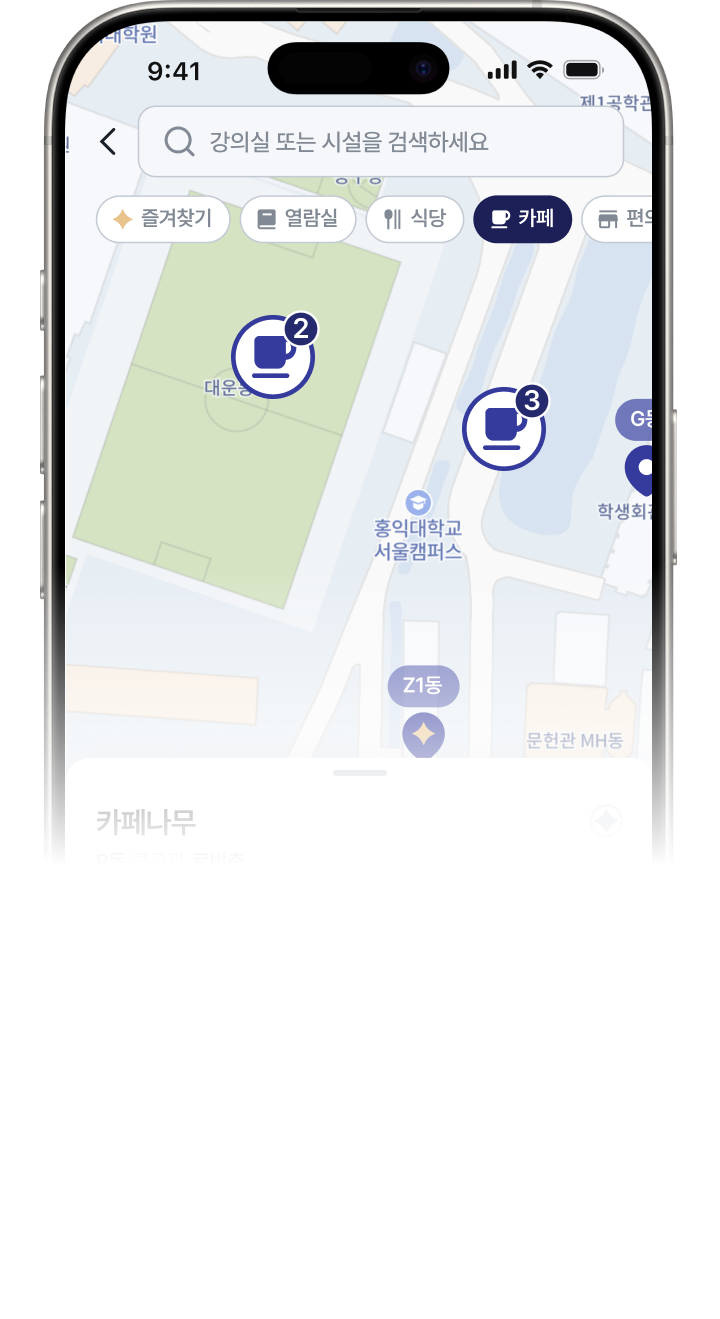
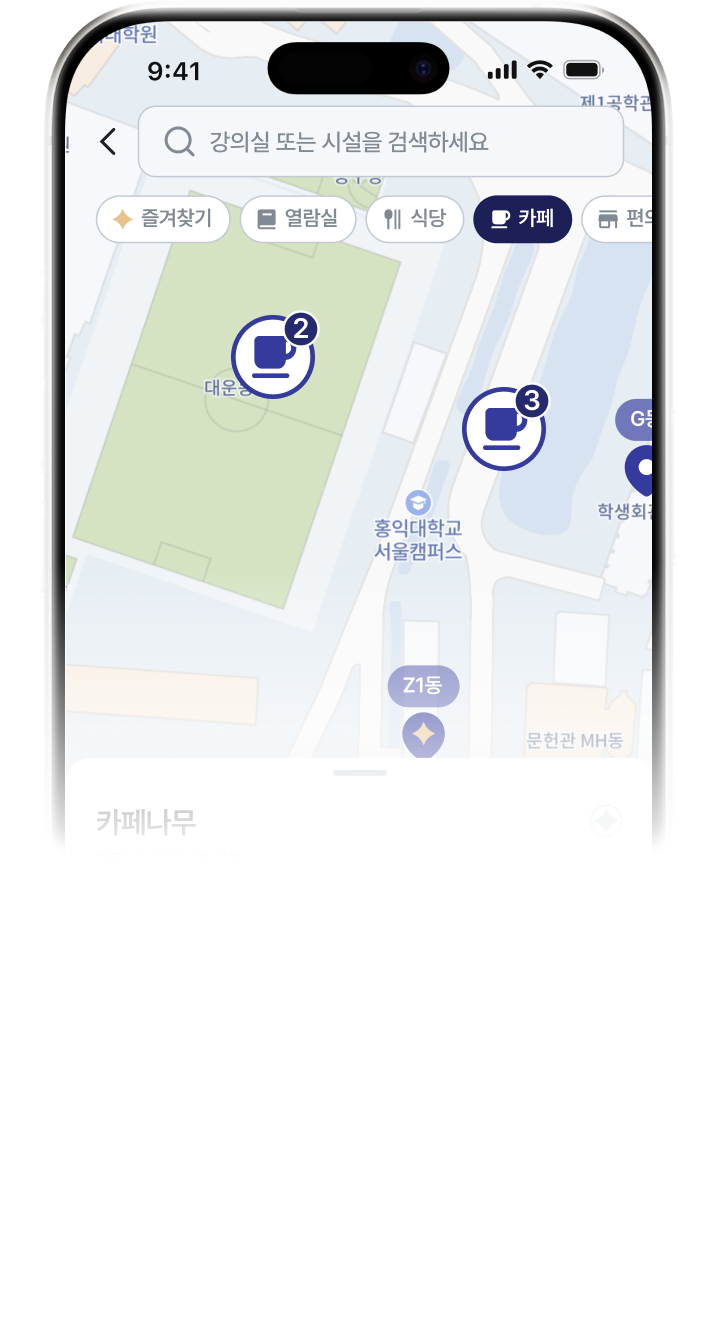
fix: 온보딩 편의시설 목업 페이지 아이콘 링/그림자 Figma 스펙 맞춤

Changed region(s): [[0.8861, 0.0622, 0.9472, 0.5906], [0.0306, 0.0622, 0.0917, 0.5906], [0.1528, 0.0, 0.8556, 0.0311]]

diff --git a/src/screens/OnboardingScreen.tsx b/src/screens/OnboardingScreen.tsx
@@ -181,13 +181,29 @@ const SEARCH_DEMO_FACILITY_ITEMS: FacilityListSheetItem[] = [
 // 온 아이콘에 맞는 편의시설 카드(FacilityInfoCard)가 아래에 크로스페이드로 바뀐다.
 // 폰 자체 크기/보이는 바닥 기준(288 캔버스 단위)은 검색 목업 페이지와 완전히 동일한
 // 스크린샷 구조라 그 상수들을 그대로 재사용한다.
-const FACILITY_RING_RADIUS = 108;
 const FACILITY_RING_ICON_BOX_SIZE = 48;
-// 맨 위(가운데) 슬롯 아이콘의 아래쪽 끝이 폰 상단에서 16px 위에 오도록 역산한 값
-// (center - radius + iconBox/2 = -16 이 되도록: center = -16 + radius - iconBox/2).
+// Figma(1257:45531/45533/45572)에서 실측한 좌/우 아이콘 중심 좌표를, 맨 위 슬롯에서부터의
+// 각도 거리(dist, 0=맨 위)별 키포인트로 옮긴 값이다 — 원 공식(sin/cos) 대신 이 실측
+// 간격을 그대로 보간해서 써야 Figma 배치와 일치한다. dist=0(맨 위 슬롯)은 측정값이 없어서
+// dist=0(맨 위 슬롯)은 아이콘 아래쪽 끝이 폰 상단(Scene 0,0)에서 16px 위에 오도록
+// 지정한 값이다(center = -16 - iconBox/2 = -40).
+// x는 중심(0)에서 좌우로 얼마나 벌어지는지(항상 양수, 부호는 좌/우에 따라 따로 곱한다),
+// y는 폰 상단(Scene 0,0) 기준 아이콘 중심의 세로 위치(위쪽일수록 음수).
 const FACILITY_RING_TOP_ICON_GAP = 16;
-const FACILITY_RING_CENTER_Y =
-  -FACILITY_RING_TOP_ICON_GAP + FACILITY_RING_RADIUS - FACILITY_RING_ICON_BOX_SIZE / 2;
+// 7개가 51.43°씩 떨어져 있으면 "쉬는" 위치의 dist는 최대 154.29°까지만 나오지만,
+// 회전 도중(한 슬롯에서 다음 슬롯으로 넘어가는 사이)에는 dist가 그보다 커져 180°(맨
+// 아래/뒤)까지 지나간다. 여기 마지막 키포인트(180)가 없으면 154.29 값에서 그대로
+// 멈춰(clamp) 왼쪽 끝 아이콘이 내려가다 만 것처럼 보인다 — 180까지 이어서 계속
+// 아래로 가라앉고(dx는 다시 0으로 모이고) 흰 배경 속으로 사라지게(opacity 0) 한다.
+const FACILITY_RING_DIST_KEYPOINTS = [0, 360 / 7, (360 / 7) * 2, (360 / 7) * 3, 180];
+const FACILITY_RING_DX_KEYPOINTS = [0, 68.5, 121.5, 136.5, 0];
+const FACILITY_RING_DY_KEYPOINTS = [
+  -FACILITY_RING_TOP_ICON_GAP - FACILITY_RING_ICON_BOX_SIZE / 2,
+  -18,
+  31,
+  88,
+  130,
+];
 const FACILITY_RING_ICON_COUNT = 7;
 const FACILITY_RING_ANGLE_STEP = 360 / FACILITY_RING_ICON_COUNT;
 const FACILITY_RING_TICK_MS = 2000;
@@ -379,20 +395,26 @@ function FacilityRingIcon({
   const style = useAnimatedStyle(() => {
     const baseAngle = index * FACILITY_RING_ANGLE_STEP;
     const angleDeg = baseAngle + rotation.value;
-    const angleRad = (angleDeg * Math.PI) / 180;
     const normalized = (((angleDeg % 360) + 540) % 360) - 180;
     const dist = Math.abs(normalized);
-    const opacity = interpolate(dist, [0, 15, 90, 130], [1, 0.33, 0.33, 0], Extrapolation.CLAMP);
+    const sign = normalized < 0 ? -1 : 1;
+    // 쉬는 위치(최대 154.29°)에서는 7개가 다 옅게라도 보이도록 0이 되지 않게 하되,
+    // 회전 중 154.29°를 지나 180°(맨 아래)까지 더 내려가는 동안에는 흰 배경 속으로
+    // 사르르 사라지도록 그 구간에서만 0으로 마저 페이드아웃한다.
+    const opacity = interpolate(
+      dist,
+      [0, 15, 90, 154.29, 180],
+      [1, 0.33, 0.33, 0.18, 0],
+      Extrapolation.CLAMP,
+    );
     const scale = interpolate(dist, [0, 15, 40], [1.12, 1.12, 1], Extrapolation.CLAMP);
-    const radius = FACILITY_RING_RADIUS;
+    const dx = interpolate(dist, FACILITY_RING_DIST_KEYPOINTS, FACILITY_RING_DX_KEYPOINTS, Extrapolation.CLAMP);
+    const dy = interpolate(dist, FACILITY_RING_DIST_KEYPOINTS, FACILITY_RING_DY_KEYPOINTS, Extrapolation.CLAMP);
     return {
       opacity,
       transform: [
-        { translateX: radius * Math.sin(angleRad) - FACILITY_RING_ICON_BOX_SIZE / 2 },
-        {
-          translateY:
-            FACILITY_RING_CENTER_Y - radius * Math.cos(angleRad) - FACILITY_RING_ICON_BOX_SIZE / 2,
-        },
+        { translateX: sign * dx - FACILITY_RING_ICON_BOX_SIZE / 2 },
+        { translateY: dy - FACILITY_RING_ICON_BOX_SIZE / 2 },
         { scale },
       ],
     };
@@ -662,10 +684,9 @@ export default function OnboardingScreen() {
           <PhoneMockupTopSpacer />
           <FadeInContent style={[{ width: '100%', alignItems: 'center' }, contentStyle]}>
             <SearchMockupScene>
-              <SearchMockupPhoneBox>
-                <SearchMockupImage source={OnboardingFacilityMockupImage} resizeMode="contain" />
-              </SearchMockupPhoneBox>
-
+              {/* 아이콘 링을 폰 스크린샷보다 먼저 그려서 폰 뒤에 깔리게 한다(회전하며
+                  폰 몸체 쪽으로 들어가는 아이콘은 폰에 가려지고, 옆으로 삐져나온
+                  부분만 보이는 게 Figma 의도와 맞다). */}
               <FacilityIconRing pointerEvents="none">
                 {FACILITY_DEMO_CATEGORIES.map((category, index) => (
                   <FacilityRingIcon
@@ -676,6 +697,10 @@ export default function OnboardingScreen() {
                   />
                 ))}
               </FacilityIconRing>
+
+              <SearchMockupPhoneBox>
+                <SearchMockupImage source={OnboardingFacilityMockupImage} resizeMode="contain" />
+              </SearchMockupPhoneBox>
 
               <FacilityInfoCardBox
                 style={[{ top: FACILITY_CARD_TOP_GAP_FROM_PHONE_TOP }, facilityInfoCardFadeStyle]}

diff --git a/src/components/common/FacilityInfoCard.tsx b/src/components/common/FacilityInfoCard.tsx
@@ -281,11 +281,11 @@ const Container = styled.View<{ variant: Props['variant']; compact: boolean }>`
   padding-bottom: ${({ compact }) => (compact ? '21.163px' : '32px')};
   /* outside/inside/room은 그래버-본문-CTA 사이가 24px, facility만 16px로 Figma 스펙이 다르다. */
   gap: ${({ variant, compact }) => (compact ? '10.581px' : variant === 'facility' ? '16px' : '24px')};
-  /* compact(온보딩 편의시설 목업)만 Figma box-shadow 적용: 0 -2.645px 10px 0 rgba(0,0,0,0.10) */
+  /* compact(온보딩 편의시설 목업)만 Figma box-shadow 적용: 0 -2.645px 20px 0 rgba(0,0,0,0.10) */
   shadow-color: #000;
   shadow-offset: 0px ${({ compact }) => (compact ? '-2.645px' : '-4px')};
   shadow-opacity: ${({ compact }) => (compact ? 0.1 : 0.05)};
-  shadow-radius: ${({ compact }) => (compact ? '48px' : '20px')};
+  shadow-radius: 20px;
   elevation: 8;
   ${({ variant }) => (variant === 'inside' ? 'height: 400px;' : '')}
 `;

diff --git a/src/components/common/FacilityListSheet.tsx b/src/components/common/FacilityListSheet.tsx
@@ -147,11 +147,12 @@ const Container = styled.View<{ compact: boolean }>`
   padding-top: ${({ compact }) => (compact ? '5.478px' : '8px')};
   padding-bottom: ${({ compact }) => (compact ? '5.478px' : '8px')};
   gap: ${({ compact }) => (compact ? '10.956px' : '16px')};
-  /* compact(온보딩 검색 목업)만 Figma box-shadow 적용: 0 -2.739px 40px 0 rgba(0,0,0,0.10) */
+  /* compact(온보딩 검색 목업)만 Figma box-shadow 적용: 0 -2.739px 20px 0 rgba(0,0,0,0.10) —
+     FacilityInfoCard와 같은 이유로 radius가 40px로 과하게 커져 있던 걸 20px로 맞춘다. */
   shadow-color: #000;
   shadow-offset: 0px ${({ compact }) => (compact ? '-2.739px' : '-4px')};
   shadow-opacity: ${({ compact }) => (compact ? 0.1 : 0.05)};
-  shadow-radius: ${({ compact }) => (compact ? '40px' : '20px')};
+  shadow-radius: 20px;
   elevation: 8;
 `;
 
